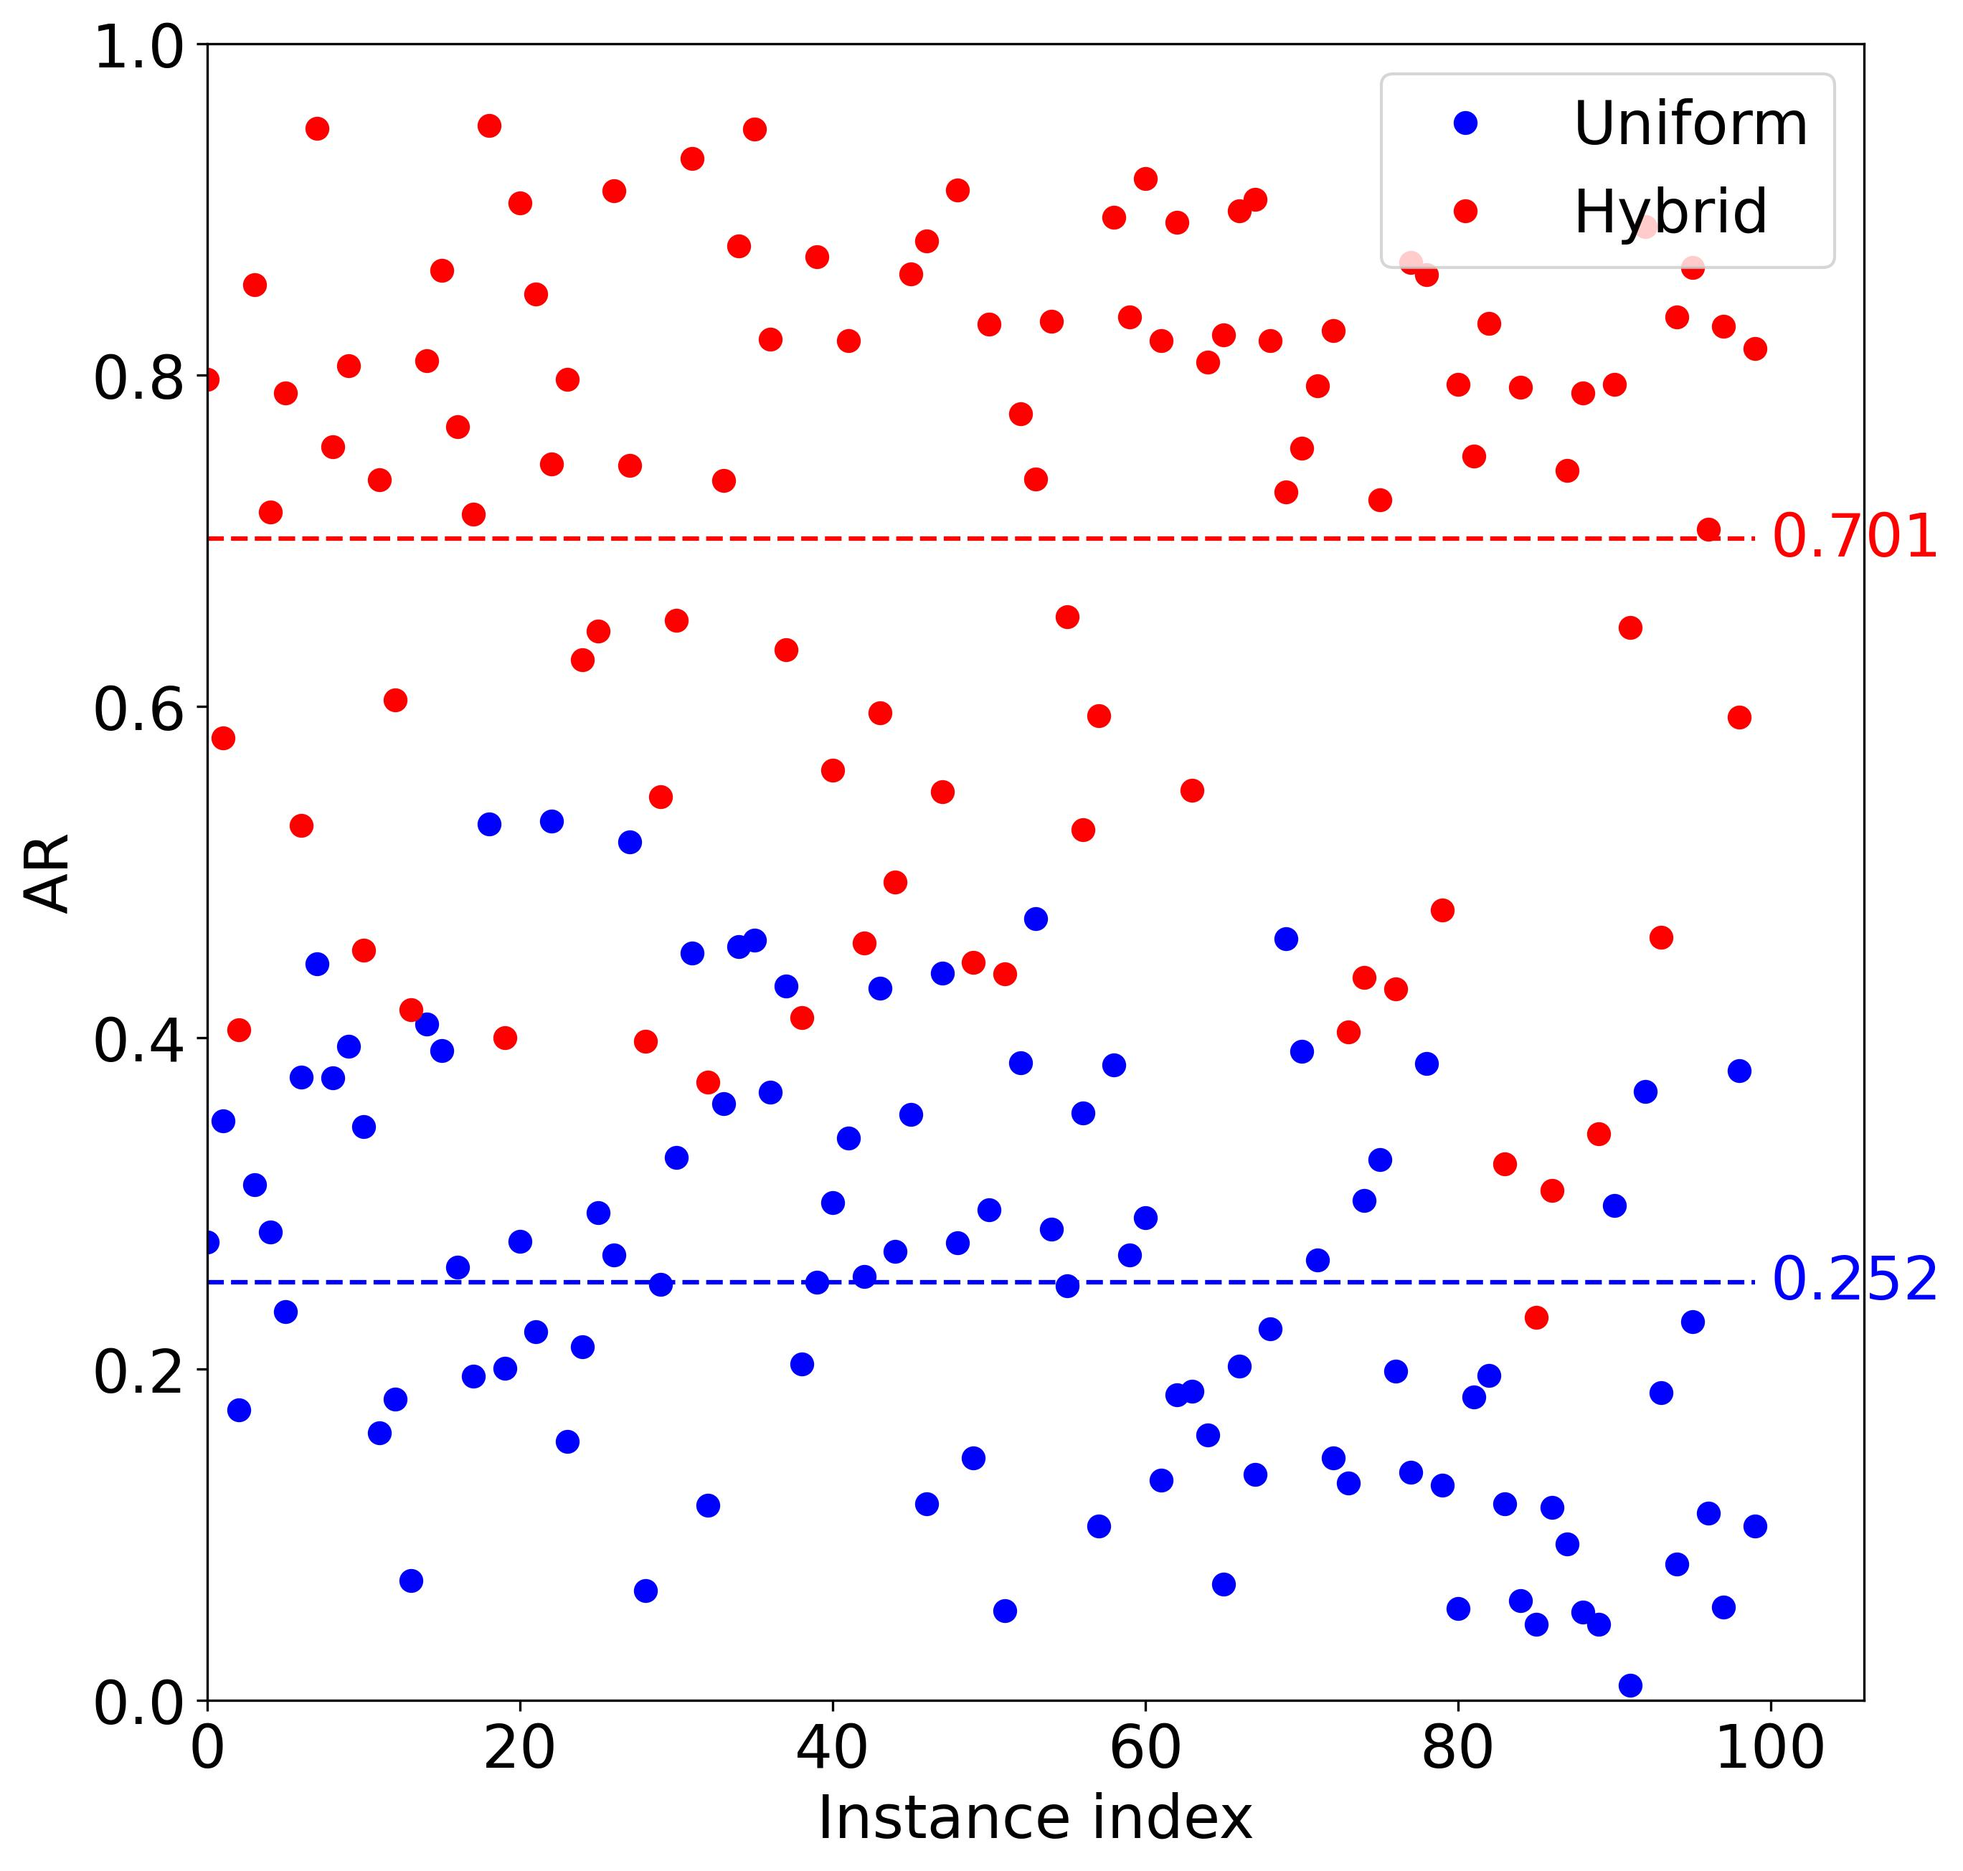
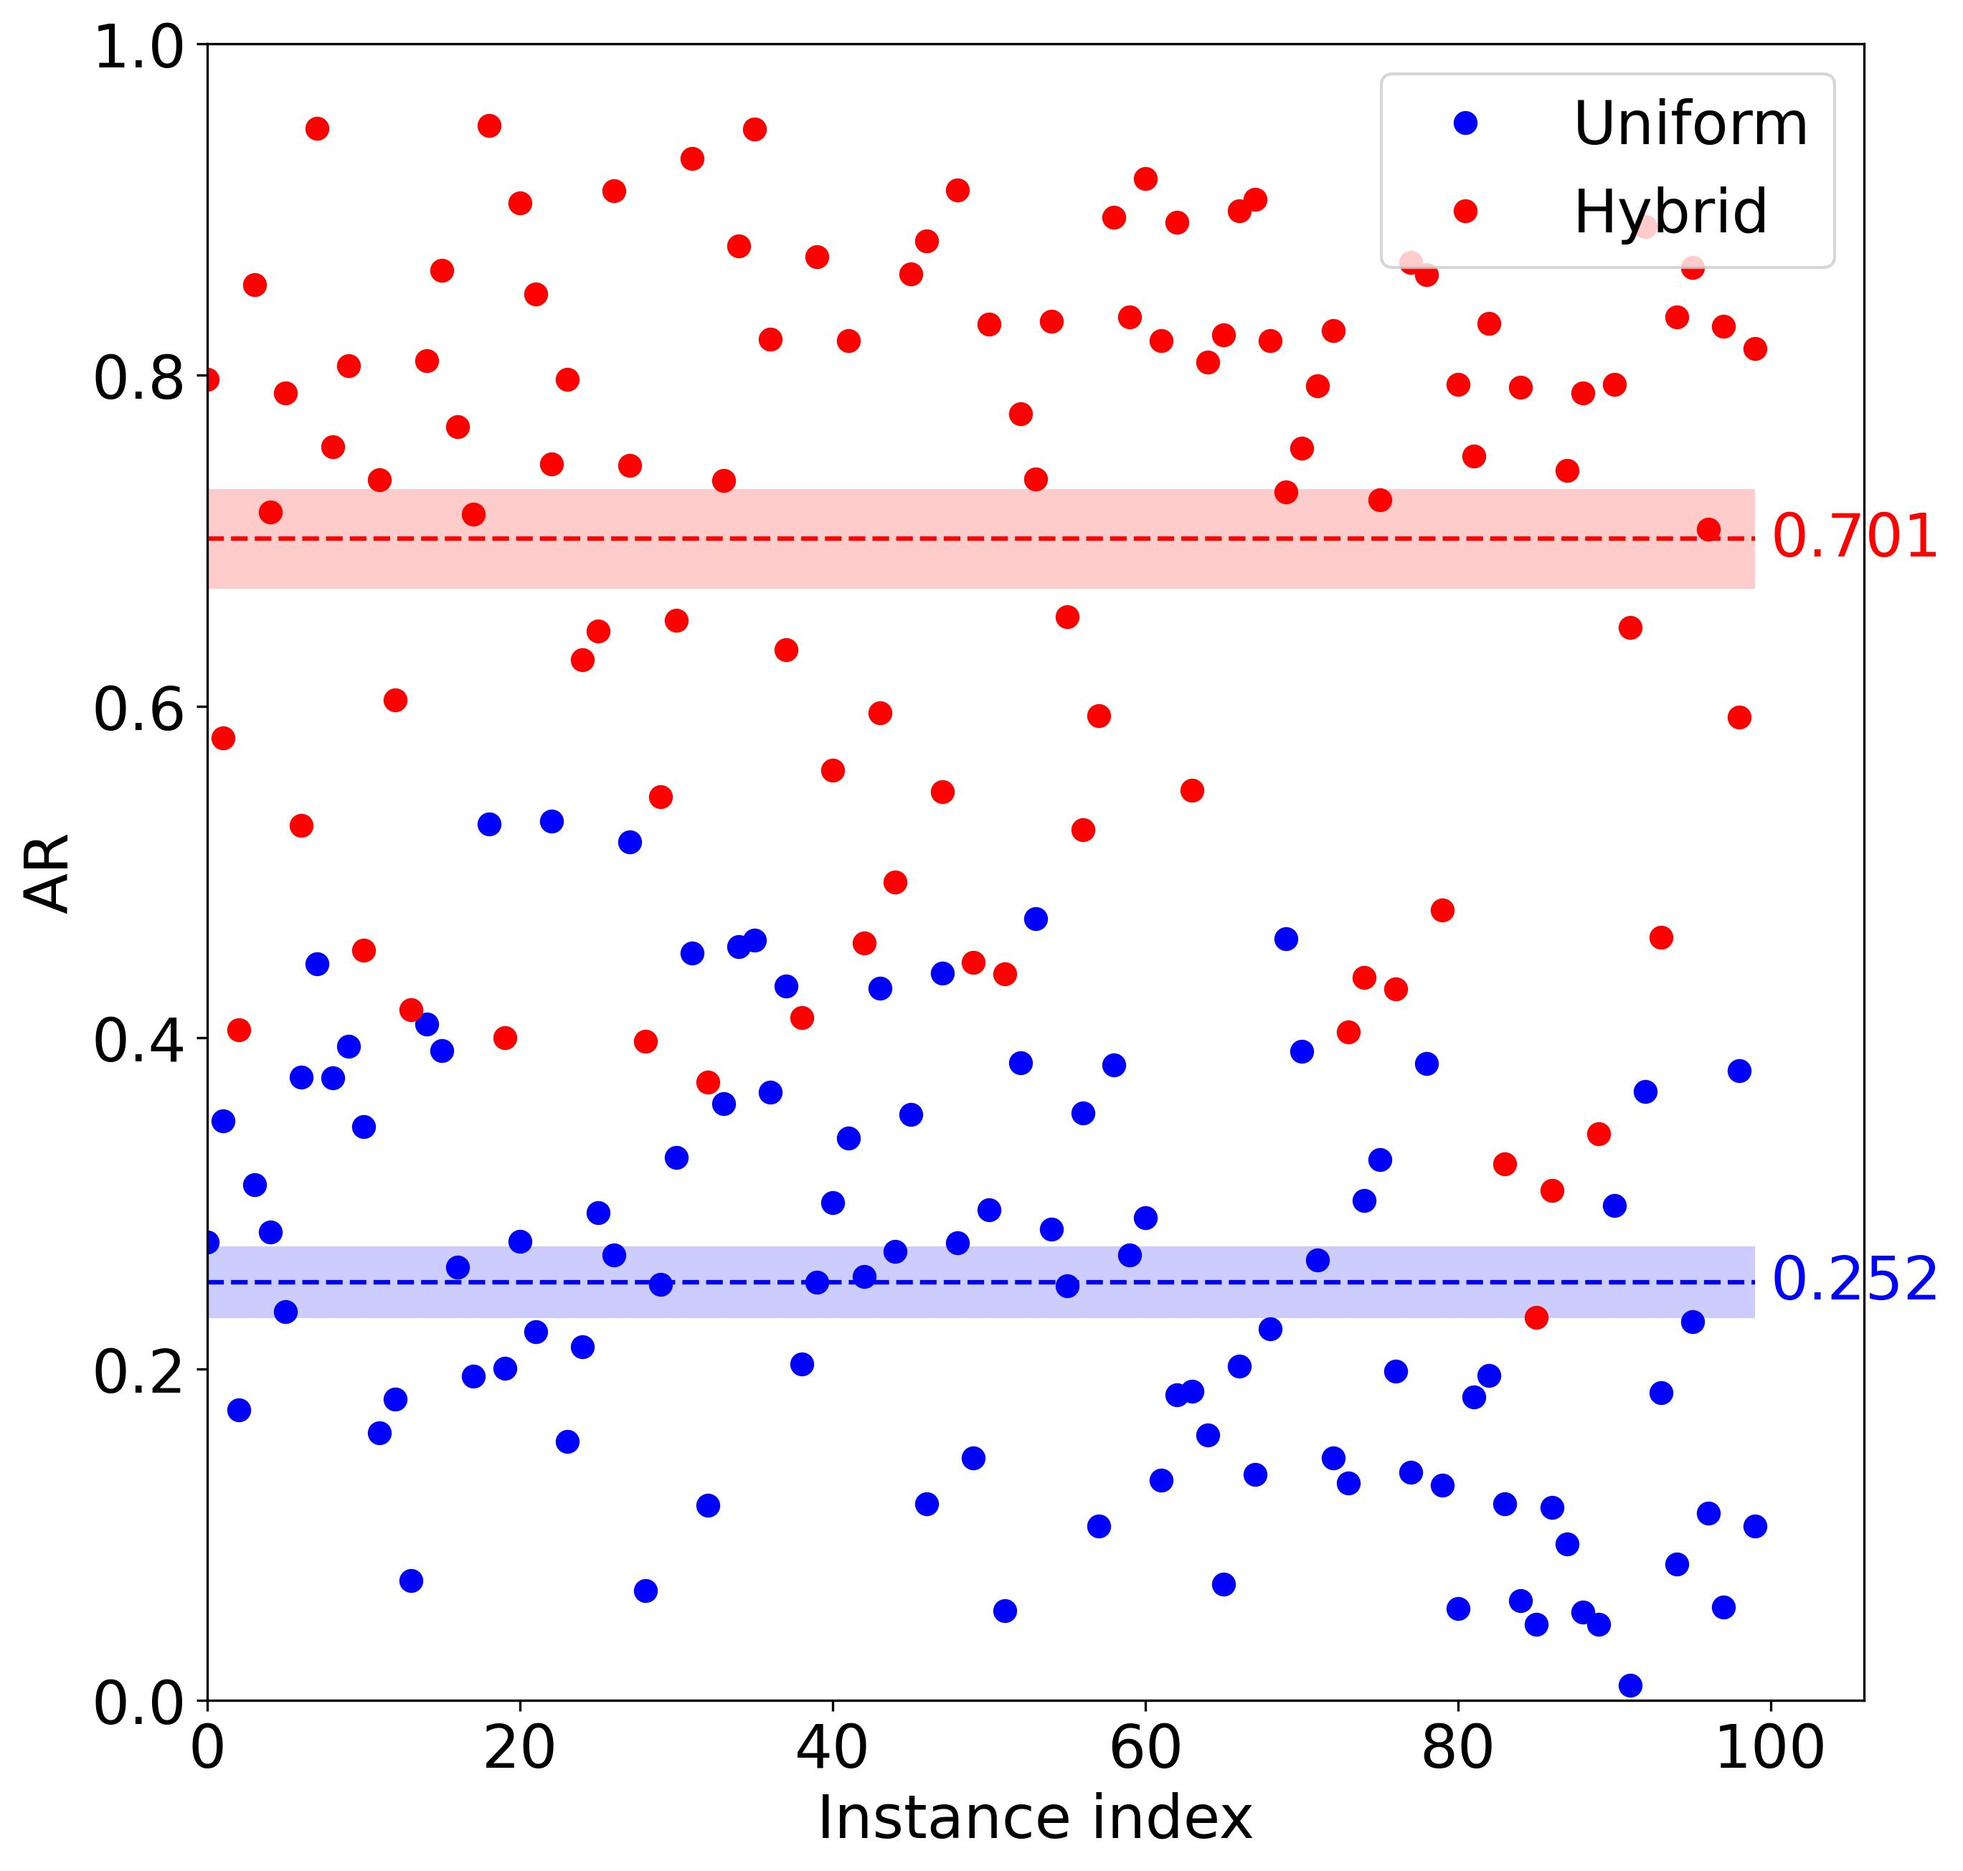
Adds CI to mean line in ar vs instance plots

Changed region(s): [[0.0932, 0.2484, 0.9006, 0.3415], [0.0932, 0.652, 0.9006, 0.7141]]

diff --git a/plots/power_grid_opt.py b/plots/power_grid_opt.py
@@ -131,9 +131,16 @@ def plot_history_diff(num_generators: int, tmax: float):
     save_figure(str(Path(__file__).resolve().parent / "out" / f"history_diff_{num_generators}.png"))
 
 
-def plot_ar_vs_instance():
-    """Plots `ar_uniform_fun` and `ar_opt_fun` against row index for the configured generator count."""
-    num_generators = 13
+def plot_ar_vs_instance_all():
+    """Plots approximation ratios against instance index for all configured generator counts."""
+    for num_generators in [10, 13]:
+        plot_ar_vs_instance(num_generators)
+
+
+def plot_ar_vs_instance(num_generators: int):
+    """Plots `ar_uniform_fun` and `ar_opt_fun` against row index with confidence intervals for their means.
+    :param num_generators: Generator count whose dataset should be plotted.
+    """
     df = load_dfs(num_generators, ["hybrid/nl_1/adam"], 0)[0]
     ar_uniform_average = df["ar_uniform"].mean()
     ar_opt_average = df["ar_opt"].mean()
@@ -142,9 +149,11 @@ def plot_ar_vs_instance():
              Line(np.arange(len(df)), df["ar_opt"], color=1, style="none", label="Hybrid"),
              Line([0, len(df) - 1], [ar_opt_average] * 2, color=1, marker="none", style="--")]
     plot_general(lines, axis_labels=("Instance index", "AR"), boundaries=(0, len(df) + 6, 0, 1), legend_loc="upper right")
+    for column, line in zip(["ar_uniform", "ar_opt"], lines[1::2], strict=True):
+        shade_confidence_interval([0, len(df) - 1], np.column_stack([df[column]] * 2), line.color)
     plt.text(len(df), ar_uniform_average, f"{ar_uniform_average:.3f}", color=lines[1].color, va="center")
     plt.text(len(df), ar_opt_average, f"{ar_opt_average:.3f}", color=lines[3].color, va="center")
-    save_figure()
+    save_figure(str(Path(__file__).resolve().parent / "out" / f"ar_vs_instance_{num_generators}.jpg"))
 
 
 def plot_ar_diff_vs_instance():
@@ -287,7 +296,7 @@ if __name__ == "__main__":
     # plot_ar_vs_time_5()
     # plot_ar_vs_time_13()
     # plot_history_diff_all()
-    plot_ar_vs_instance()
+    plot_ar_vs_instance_all()
     # plot_ar_diff_vs_instance()
     # plot_mean_max_shots_vs_generators()
     plt.show()
